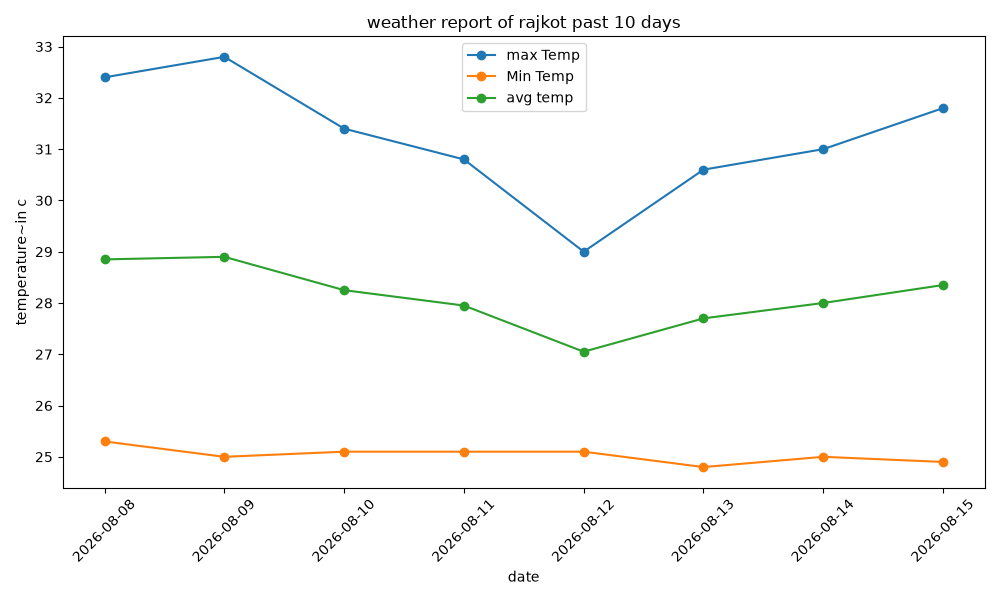
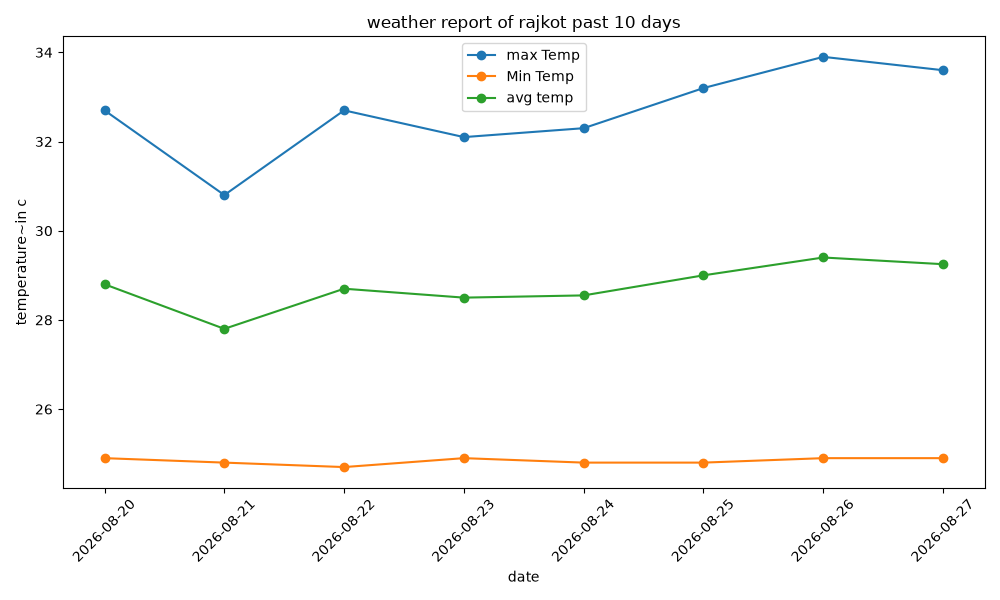
initial

diff --git a/python-for-ai/bascis-of-python/data structure a to z/recursive functions/leetcode_string_palindrome.py b/python-for-ai/bascis-of-python/data structure a to z/recursive functions/leetcode_string_palindrome.py
@@ -1,0 +1,43 @@
+class Solution(object):
+    def isPalindrome(self, s, i=0):
+        # Only clean the string once, on the very first call
+        if i == 0:
+            try:
+                s = s.lower()
+                s = s.lower()
+                s = s.replace(" ", "")
+                s = s.replace(",", "")
+                s = s.replace(":", "")
+                s = s.replace(".", "")
+                s = s.replace("'", "")
+                s = s.replace("!", "")
+                s = s.replace("?", "")
+                s = s.replace(";", "")
+
+            except:
+                s = s.lower()
+                s = "".join(filter(str.isalnum, s))
+
+        # Base case: reached the middle, no mismatches found
+        if i >= len(s) // 2:
+            return True
+
+        # Compare front character with matching back character
+        if s[i] != s[len(s) - i - 1]:
+            return False
+
+        # Move inward and check the next pair
+        return self.isPalindrome(s, i + 1)
+
+
+# Manual testing
+sol = Solution()
+print(sol.isPalindrome("Race car"))  # True
+print(sol.isPalindrome("A man, a plan, a canal: Panama"))  # True
+print(sol.isPalindrome("race a car"))  # False
+print(sol.isPalindrome(" "))  # True
+print(sol.isPalindrome(":aa/"))  # True
+
+
+# note:it will not work for the all test cases in leet code so
+# if you want to run all the test cases use only the except condition

diff --git a/python-for-ai/bascis-of-python/data structure a to z/recursive functions/tempCodeRunnerFile.py b/python-for-ai/bascis-of-python/data structure a to z/recursive functions/tempCodeRunnerFile.py
@@ -1,18 +1,15 @@
-def swap2(x, arr, n):
-    if x >= n // 2:
-        return
-    else:
-        temp = arr[x]
-        arr[x] = arr[n - 1 - x]
-        arr[n - 1 - x] = temp
-        swap2(x + 1, arr, n)
+class solution:
+    def palindrome(self, i, name):
+        name.lower()
+        name.remove(" ")
+        if i >= name.len() / 2:
+            return True
+        if name[i] != name[name.len() - i - 1]:
+            return False
+        return self.palindrome(i + 1, name)
 
 
-n = 5
-arr = [1, 2, 3, 4, 5]
-swap2(0, arr, n)
-print(arr)
-# simple by using python in build function we can reverse
-# an array but to uderstand the concept of recursion i use this method
-arr.reverse()
-print(arr)
+s = solution()
+x = s.palindrome(0, "name is rishDHDIL BDBjv ")
+
+print(x)

diff --git a/python-for-ai/bascis-of-python/data structure a to z/recursive functions/string_palindrome.py b/python-for-ai/bascis-of-python/data structure a to z/recursive functions/string_palindrome.py
@@ -1,0 +1,16 @@
+def f1(i, name):
+    # 1. Check if we have reached the middle of the word
+    if i >= len(name) // 2:
+        return True
+
+    # 2. Compare the front letter with the matching back letter
+    if name[i] != name[len(name) - i - 1]:
+        # If they do not match, it is not a palindrome
+        return False
+
+    # 3. Move to the next set of letters
+    return f1(i + 1, name)
+
+
+name = "madam"
+print(f1(0, name))

diff --git a/python-for-ai/modules/new_file.py b/python-for-ai/modules/new_file.py
@@ -1,0 +1,14 @@
+def add(a, b):
+    return a + b
+
+
+def sub(a, b):
+    return a - b
+
+
+def mul(a, b):
+    return a * b
+
+
+def divi(a, b):
+    return a / b

diff --git a/python-for-ai/modules/start.py b/python-for-ai/modules/start.py
@@ -1,0 +1,7 @@
+from new_file import divi
+from new_file import sub
+
+divi(2, 1)
+sub(2, 1)
+print(divi(1, 2))
+print(sub(2, 1))

diff --git a/python-for-ai/modules/tempCodeRunnerFile.py b/python-for-ai/modules/tempCodeRunnerFile.py
@@ -1,0 +1,7 @@
+from new_file import divi
+from new_file import sub
+
+divi(2, 1)
+sub(2, 1)
+print(divi(1, 2))
+print(sub(2, 1))
